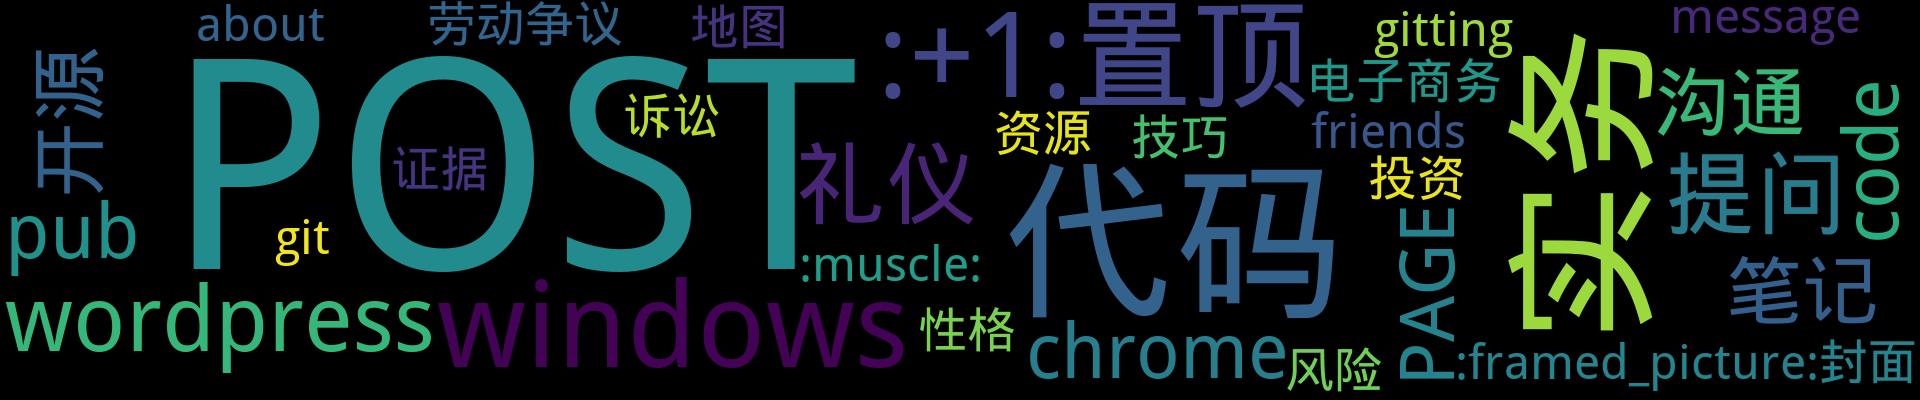
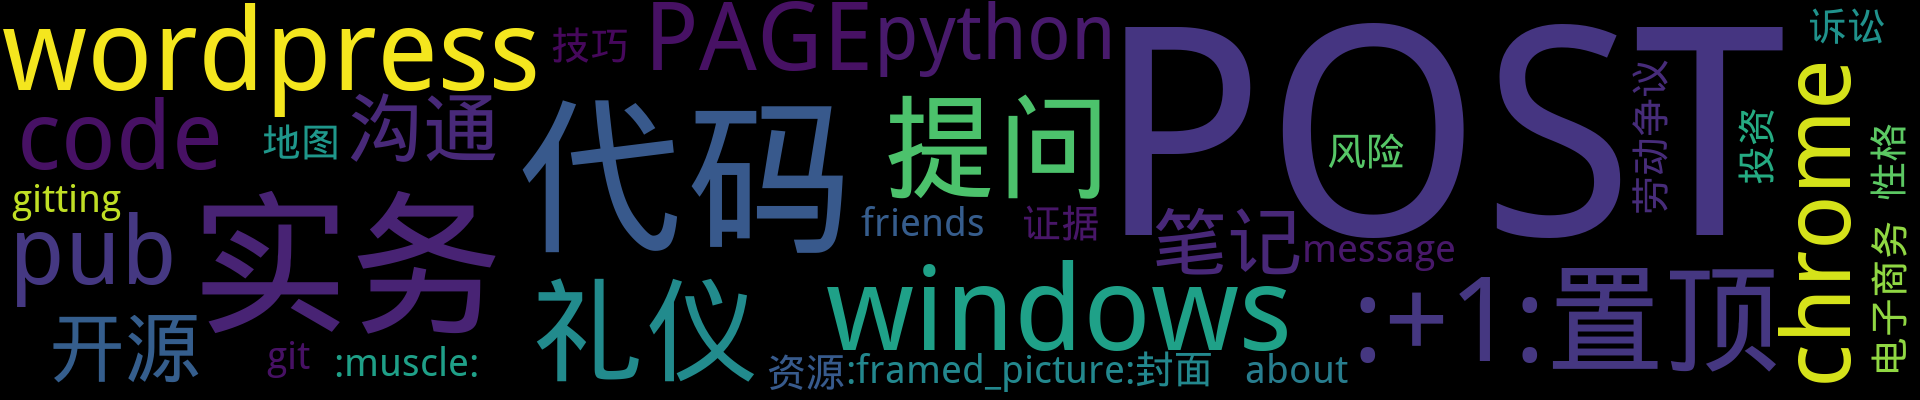
Update from Github Action

diff --git a/README.md b/README.md
@@ -17,9 +17,9 @@
 </p>
 
 <p align='center'>
-    <img src="https://badgen.net/badge/labels/38"/>
+    <img src="https://badgen.net/badge/labels/39"/>
     <img src="https://badgen.net/github/issues/fydy/elaw"/>
-    <img src="https://badgen.net/badge/last-commit/2020-03-31 04:19:29"/>
+    <img src="https://badgen.net/badge/last-commit/2020-04-01 08:15:17"/>
     <img src="https://badgen.net/github/forks/fydy/elaw"/>
     <img src="https://badgen.net/github/stars/fydy/elaw"/>
     <img src="https://badgen.net/github/watchers/fydy/elaw"/>
@@ -55,9 +55,26 @@ is
 - [提问的智慧](https://github.com/fydy/elaw/issues/19)  <sup>0 :speech_balloon:</sup>  	 
 ## 最新 :new: 
 
+#### [将DOC、RTF格式文件批量转为TXT格式文件](https://github.com/fydy/elaw/issues/54) <sup>0 :speech_balloon:</sup> 	 2020-04-01 08:14:34
+
+:label: : [POST](https://github.com/fydy/isblog/labels/POST), [python](https://github.com/fydy/isblog/labels/python)
+
+- Windows 下将目录下所有文件下的文件 拷贝到一个目录中：搜索` "." `
+
+- 安装python 及 win32com模块 ` pip install pypiwin32 `
+
+- 创建` LDA_RTF_TXT.py `
+```
+from glob import glob
+
+[更多>>>](https://github.com/fydy/elaw/issues/54)
+
+---
+
+
 #### [pip超时的问题](https://github.com/fydy/elaw/issues/53) <sup>0 :speech_balloon:</sup> 	 2020-03-31 04:18:50
 
-:label: : [POST](https://github.com/fydy/isblog/labels/POST)
+:label: : [POST](https://github.com/fydy/isblog/labels/POST), [python](https://github.com/fydy/isblog/labels/python)
 
 解决方法有3种：
 -1.手动换源（推荐）
@@ -110,19 +127,6 @@ chattr -R -a mulu
 ![image](https://user-i
 
 [更多>>>](https://github.com/fydy/elaw/issues/50)
-
----
-
-
-#### [win10 ](https://github.com/fydy/elaw/issues/49) <sup>0 :speech_balloon:</sup> 	 2020-03-02 09:53:26
-
-:label: : [POST](https://github.com/fydy/isblog/labels/POST), [windows](https://github.com/fydy/isblog/labels/windows)
-
-```
-win10 Enterprise : M7XM2-97NMJ-RQGMK-XMPFC-W2QF4
-```
-
-[更多>>>](https://github.com/fydy/elaw/issues/49)
 
 ---
 
@@ -193,8 +197,9 @@ win10 Enterprise : M7XM2-97NMJ-RQGMK-XMPFC-W2QF4
 </details>
 
 <details>
-<summary>POST	<sup>43:newspaper:</sup></summary>
+<summary>POST	<sup>44:newspaper:</sup></summary>
 
+- [将DOC、RTF格式文件批量转为TXT格式文件](https://github.com/fydy/elaw/issues/54)  <sup>0 :speech_balloon:</sup>  	 
 - [pip超时的问题](https://github.com/fydy/elaw/issues/53)  <sup>0 :speech_balloon:</sup>  	 
 - [linux目录权限只能写入不能删除](https://github.com/fydy/elaw/issues/52)  <sup>0 :speech_balloon:</sup>  	 
 - [民事诉讼流程](https://github.com/fydy/elaw/issues/51)  <sup>0 :speech_balloon:</sup>  	 
@@ -312,6 +317,15 @@ win10 Enterprise : M7XM2-97NMJ-RQGMK-XMPFC-W2QF4
 
 - [在 CentOS 7 下安装配置 Shadowsocks](https://github.com/fydy/elaw/issues/38)  <sup>1 :speech_balloon:</sup>  	 
 - [图书馆数字资源校外使用账号](https://github.com/fydy/elaw/issues/34)  <sup>0 :speech_balloon:</sup>  	 
+
+
+</details>
+
+<details>
+<summary>python	<sup>2:newspaper:</sup></summary>
+
+- [将DOC、RTF格式文件批量转为TXT格式文件](https://github.com/fydy/elaw/issues/54)  <sup>0 :speech_balloon:</sup>  	 
+- [pip超时的问题](https://github.com/fydy/elaw/issues/53)  <sup>0 :speech_balloon:</sup>  	 
 
 
 </details>
